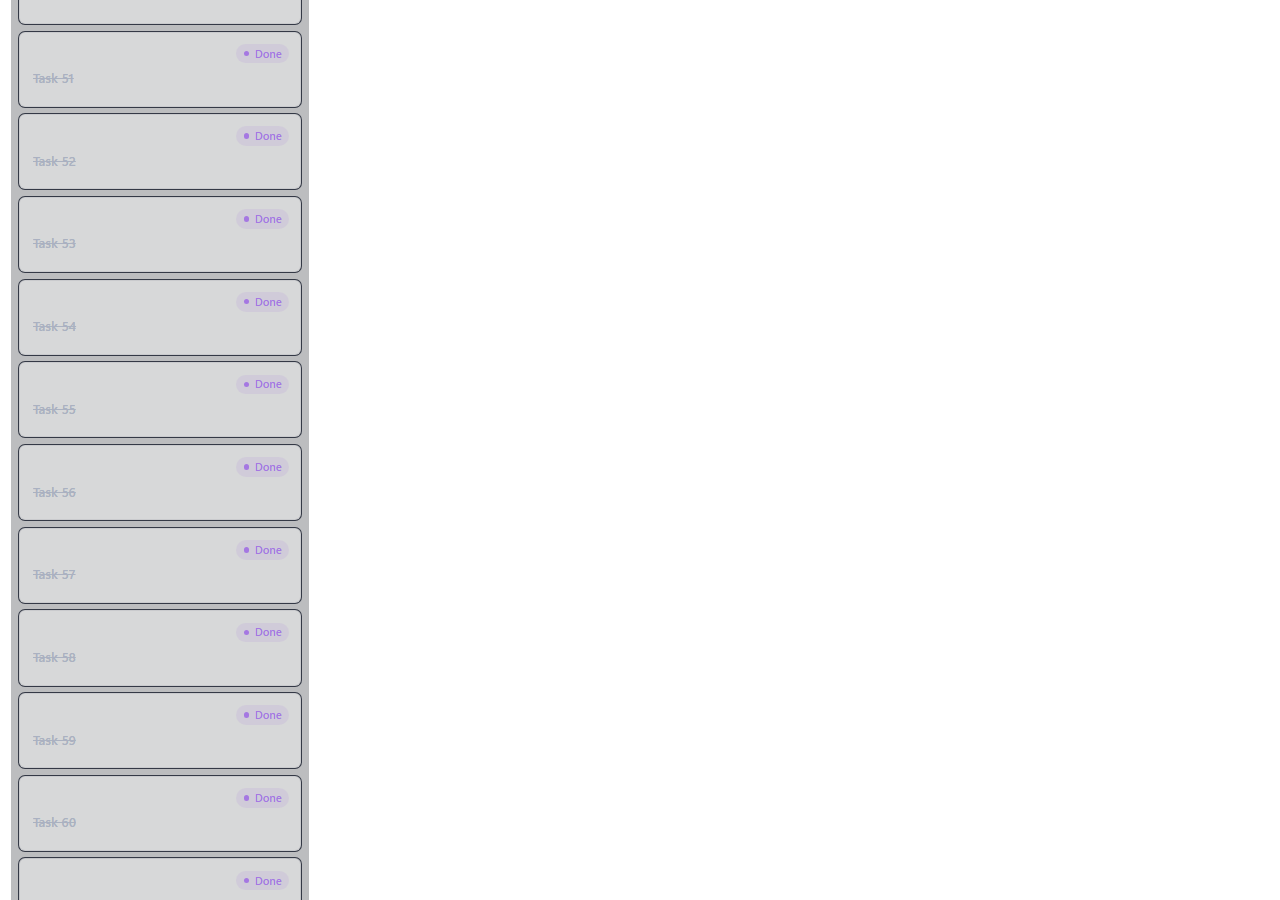
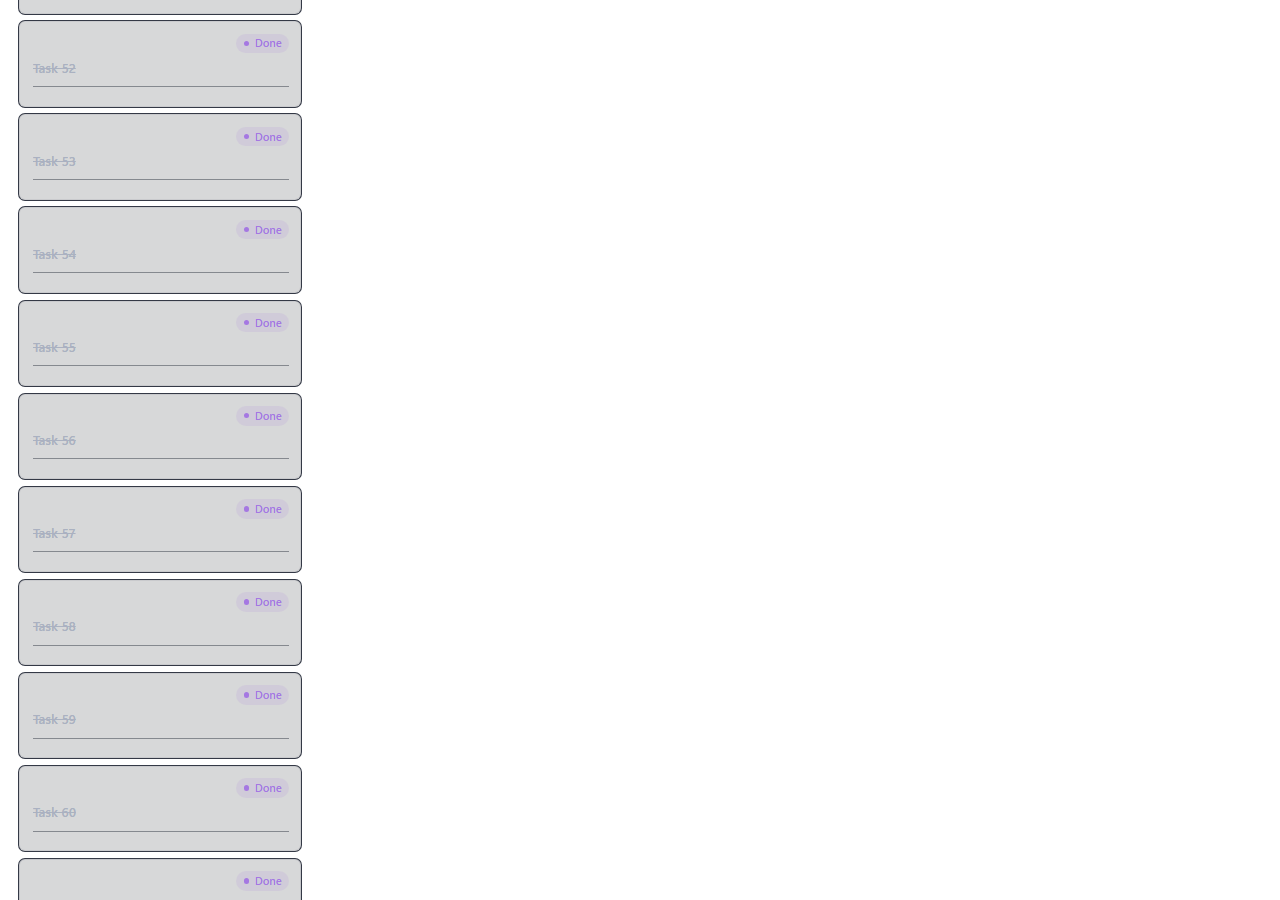
fix(ui): restore the board's colour, shrink the panel titles, drop the interface scale
Four corrections from review, all visual rather than structural.

The board lost its identity when columns went neutral: the dot-plus-muted-pill repaint was justified by an unreadable onAccent (white on amber measured 2.15:1), but that cause no longer exists - onAccent is derived from the fill's luminance and the chrome workflow asserts >=4.5:1 for every palette colour as rendered. Solid pills and the per-column tint are back, and the count chip sits on the fill again with a translucent white. The card keeps its three-row anatomy and regains the footer hairline (3 rows, 85.6px against the 96px budget).

Panel headers are back to text-body (13px): the 16px tier made every header - sidebar, chat, panes - read as a section title.

Interface scale is gone: the control, its i18n keys, and the uiScale preference field in shared config (types, schema, normalization, persistence). --ui-scale keeps its token default of 1, so geometry is unchanged; the theme-storage test drops the expectation it had grown.

Context categories now have five distinguishable tones instead of accent twice plus a near-white 'injected': system=accent, user=accent/55, assistant=success, tools=info, injected=foreground-dimmed.

Changed region(s): [[0.0, 0.0, 0.25, 1.0]]

diff --git a/apps/electron/src/renderer/components/app-shell/kanban/KanbanColumn.tsx b/apps/electron/src/renderer/components/app-shell/kanban/KanbanColumn.tsx
@@ -156,8 +156,9 @@ export function KanbanColumn({
 
       <div
         ref={setNodeRef}
-        className="flex flex-1 flex-col gap-2 overflow-y-auto rounded-lg bg-muted/30 p-2 transition-shadow"
+        className="flex flex-1 flex-col gap-2 overflow-y-auto rounded-lg p-2 transition-shadow"
         style={{
+          backgroundColor: color?.tint,
           outline: isOver && color ? `2px solid ${color.solid}` : undefined,
         }}
       >
@@ -249,19 +250,14 @@ function ColumnHeader({
   const initialFocusRef = useInitialFocus<HTMLInputElement>()
   const [open, setOpen] = React.useState(false)
 
-  // Neutral header surface: the column's identity is a coloured dot plus the
-  // label, not a saturated pill. A solid pill forced text onto the raw accent
-  // (white on amber measured 2.15:1) and made four column hues compete with the
-  // status colours on the cards.
+  // The column's identity is its colour: the pill carries the solid fill and the
+  // fill's computed onAccent (>=4.5:1 for every palette entry, asserted by the
+  // chrome workflow), and the body carries the matching tint. The neutral repaint
+  // this replaces existed only because a hard-coded white onAccent measured
+  // 2.15:1 — that cause is gone now that the contrast is derived.
+  const pillStyle = color ? { backgroundColor: color.solid, color: color.onAccent } : undefined
   const inner = (
     <>
-      {color && (
-        <span
-          aria-hidden
-          className="size-2 shrink-0 rounded-full"
-          style={{ backgroundColor: color.solid }}
-        />
-      )}
       {dropStatus && (
         <span className="shrink-0 flex items-center" style={getStatusIconStyle(dropStatus)}>
           {dropStatus.icon}
@@ -269,7 +265,8 @@ function ColumnHeader({
       )}
       {label}
       <span
-        className="inline-flex h-4 min-w-[1rem] items-center justify-center rounded-full bg-foreground/5 px-1 text-micro font-semibold tabular-nums text-text-secondary"
+        className="inline-flex h-4 min-w-[1rem] items-center justify-center rounded-full px-1 text-micro font-semibold tabular-nums"
+        style={{ backgroundColor: 'rgba(255, 255, 255, 0.25)' }}
       >
         {count}
       </span>
@@ -279,7 +276,10 @@ function ColumnHeader({
   // Plain pill: nothing to configure.
   if (!onSelectDropStatus && !editable) {
     return (
-      <span className="inline-flex items-center gap-1.5 rounded-full bg-muted px-2.5 py-1 text-meta font-semibold uppercase tracking-wider text-text-secondary">
+      <span
+        className="inline-flex items-center gap-1.5 rounded-full px-2.5 py-1 text-meta font-semibold uppercase tracking-wider"
+        style={pillStyle}
+      >
         {inner}
       </span>
     )
@@ -292,7 +292,8 @@ function ColumnHeader({
         data-no-dnd="true"
         onPointerDown={e => e.stopPropagation()}
         title={editable ? t('kanban.column.edit') : t('kanban.column.setDropStatus')}
-        className="craft-control craft-focus inline-flex items-center gap-1.5 rounded-full bg-muted px-2.5 py-1 text-meta font-semibold uppercase tracking-wider text-text-secondary transition-shadow hover:ring-2 hover:ring-foreground/15 focus-visible:ring-2 focus-visible:ring-ring/50 data-[state=open]:ring-2 data-[state=open]:ring-foreground/20"
+        className="craft-control craft-focus inline-flex items-center gap-1.5 rounded-full px-2.5 py-1 text-meta font-semibold uppercase tracking-wider transition-shadow hover:ring-2 hover:ring-foreground/15 focus-visible:ring-2 focus-visible:ring-ring/50 data-[state=open]:ring-2 data-[state=open]:ring-foreground/20"
+        style={pillStyle}
       >
         {inner}
         <ChevronDown className="h-3 w-3 opacity-70" />

diff --git a/apps/electron/src/renderer/context/ThemeContext.tsx b/apps/electron/src/renderer/context/ThemeContext.tsx
@@ -24,7 +24,6 @@ import {
   type ThemeOverrides,
   type ThemePreferenceMode,
   type ThemePreferences,
-  type ThemeUiScale,
   type PresetTheme,
 } from '@config/theme'
 import { compileThemeInBrowser } from '@phaneris/ui/theme-compiler'
@@ -42,12 +41,9 @@ interface ThemeContextType {
   mode: ThemeMode
   colorTheme: string
   font: FontFamily
-  /** Interface scale; 1, 1.1 or 1.25. Applied as --ui-scale on the root. */
-  uiScale: ThemeUiScale
   setMode: (mode: ThemeMode) => void
   setColorTheme: (theme: string) => void
   setFont: (font: FontFamily) => void
-  setUiScale: (scale: ThemeUiScale) => void
 
   activeWorkspaceId: string | null
   workspaceColorTheme: string | null
@@ -205,8 +201,7 @@ export function ThemeProvider({
       mode: defaultMode,
       colorTheme: defaultColorTheme,
       font: defaultFont,
-      uiScale: 1,
-    }
+        }
   ))
   const preferencesRef = useRef(preferences)
   const preferenceGeneration = useRef(0)
@@ -231,7 +226,6 @@ export function ThemeProvider({
   const [userThemeRevision, setUserThemeRevision] = useState(0)
 
   const { mode, colorTheme, font } = preferences
-  const uiScale: ThemeUiScale = preferences.uiScale ?? 1
   const resolvedMode = mode === 'system' ? systemPreference : mode
   const effectiveColorTheme = previewColorTheme ?? workspaceColorTheme ?? colorTheme
   const effectiveColorThemeSource: 'preview' | 'workspace' | 'app' =
@@ -365,9 +359,6 @@ export function ThemeProvider({
     persistPreferences({ font: nextFont })
   }, [persistPreferences])
 
-  const setUiScale = useCallback((nextScale: ThemeUiScale) => {
-    persistPreferences({ uiScale: nextScale })
-  }, [persistPreferences])
 
   // Workspace theme selection is loaded with a request generation so a slow
   // response from the previous workspace can never overwrite the active one.
@@ -585,8 +576,7 @@ export function ThemeProvider({
       : resolvedTheme
     // One knob for control geometry and type. --reading-scale stays separate so
     // enlarging the UI never reflows the reading column.
-    root.style.setProperty('--ui-scale', String(uiScale))
-    root.dataset.themeDepth = effectiveVisualTheme.depth ?? 'elevated'
+      root.dataset.themeDepth = effectiveVisualTheme.depth ?? 'elevated'
     root.dataset.themeDensity = effectiveVisualTheme.density ?? 'comfortable'
     const styleId = 'craft-theme-overrides'
     let styleElement = document.getElementById(styleId) as HTMLStyleElement | null
@@ -602,7 +592,7 @@ export function ThemeProvider({
     window.dispatchEvent(new CustomEvent('craft-theme-change', {
       detail: { ...snapshot, id: snapshot.appliedId, mode: snapshot.actualMode },
     }))
-  }, [actualMode, font, isDark, isScenic, loadedTheme, resolvedMode, resolvedTheme, snapshot, systemPreference, uiScale])
+  }, [actualMode, font, isDark, isScenic, loadedTheme, resolvedMode, resolvedTheme, snapshot, systemPreference])
 
   useEffect(() => {
     const setTitleBarOverlay = window.electronAPI?.setTitleBarOverlay
@@ -627,8 +617,6 @@ export function ThemeProvider({
     setMode,
     setColorTheme,
     setFont,
-    uiScale,
-    setUiScale,
     activeWorkspaceId,
     workspaceColorTheme,
     setWorkspaceColorTheme,
@@ -670,8 +658,6 @@ export function ThemeProvider({
     resolvedTheme,
     setColorTheme,
     setFont,
-    uiScale,
-    setUiScale,
     setMode,
     setWorkspaceColorTheme,
     shikiConfig,

diff --git a/packages/shared/src/config/appearance.ts b/packages/shared/src/config/appearance.ts
@@ -16,7 +16,7 @@ import { mergeDecisionLayerSettings, normalizeDecisionLayerSettings, type Decisi
 
 import { normalizeImageGenerationSettings, type ImageGenerationSettings } from './image-generation.ts';
 
-import { BUILTIN_THEMES, DEFAULT_THEME_FILE, isBuiltinThemeId, normalizeBuiltinThemeId, DEFAULT_THEME_PREFERENCES, isValidUserThemeId, resolveTheme, type ThemeOverrides, type ThemeFile, type PresetTheme, type ThemePreferences, type ThemeUiScale, type ThemeSummary } from './theme.ts';
+import { BUILTIN_THEMES, DEFAULT_THEME_FILE, isBuiltinThemeId, normalizeBuiltinThemeId, DEFAULT_THEME_PREFERENCES, isValidUserThemeId, resolveTheme, type ThemeOverrides, type ThemeFile, type PresetTheme, type ThemePreferences, type ThemeSummary } from './theme.ts';
 import type { ThemeDiagnostic } from './theme-manifest.ts';
 
 import { type NetworkProxySettings } from './types.ts';
@@ -681,13 +681,7 @@ export function getThemePreferences(): ThemePreferences {
     font: config?.themeFont === 'theme' || config?.themeFont === 'inter' || config?.themeFont === 'system'
       ? config.themeFont
       : DEFAULT_THEME_PREFERENCES.font,
-    uiScale: normalizeUiScale(config?.uiScale),
   };
-}
-
-/** Unknown or legacy values fall back to 1 rather than inventing a scale. */
-function normalizeUiScale(value: unknown): ThemeUiScale {
-  return value === 1.1 || value === 1.25 || value === 1 ? value : 1;
 }
 
 /** Persist all theme preferences as one atomic config update. */
@@ -700,7 +694,6 @@ export function setThemePreferences(preferences: ThemePreferences): ThemePrefere
     font: preferences.font === 'theme' || preferences.font === 'inter' || preferences.font === 'system'
       ? preferences.font
       : DEFAULT_THEME_PREFERENCES.font,
-    uiScale: normalizeUiScale(preferences.uiScale),
   };
 
   const config = loadStoredConfig();
@@ -708,7 +701,6 @@ export function setThemePreferences(preferences: ThemePreferences): ThemePrefere
   config.themeMode = normalized.mode;
   config.colorTheme = normalized.colorTheme;
   config.themeFont = normalized.font;
-  config.uiScale = normalized.uiScale;
   saveConfig(config);
   return normalized;
 }

diff --git a/packages/shared/src/config/__tests__/theme-storage.test.ts b/packages/shared/src/config/__tests__/theme-storage.test.ts
@@ -213,15 +213,13 @@ describe('user theme storage', () => {
       });
       console.log(JSON.stringify({ initial, persisted, reloaded: getThemePreferences() }));
     `) as {
-      initial: { mode: string; colorTheme: string; font: string; uiScale: number };
-      persisted: { mode: string; colorTheme: string; font: string; uiScale: number };
-      reloaded: { mode: string; colorTheme: string; font: string; uiScale: number };
+      initial: { mode: string; colorTheme: string; font: string };
+      persisted: { mode: string; colorTheme: string; font: string };
+      reloaded: { mode: string; colorTheme: string; font: string };
     };
 
-    // `uiScale` is part of the theme preference shape (normalized to 1 when a
-    // config predates it), so the authoritative-store read must report it.
-    expect(result.initial).toEqual({ mode: 'system', colorTheme: 'default', font: 'theme', uiScale: 1 });
-    expect(result.persisted).toEqual({ mode: 'dark', colorTheme: 'default', font: 'system', uiScale: 1 });
+    expect(result.initial).toEqual({ mode: 'system', colorTheme: 'default', font: 'theme' });
+    expect(result.persisted).toEqual({ mode: 'dark', colorTheme: 'default', font: 'system' });
     expect(result.reloaded).toEqual(result.persisted);
     const rawConfig = JSON.parse(readFileSync(join(configDir, 'config.json'), 'utf-8'));
     expect(rawConfig.themeMode).toBe('dark');

diff --git a/apps/electron/src/renderer/pages/settings/AppearanceSettingsPage.tsx b/apps/electron/src/renderer/pages/settings/AppearanceSettingsPage.tsx
@@ -117,8 +117,6 @@ export default function AppearanceSettingsPage() {
     setColorTheme,
     font,
     setFont,
-    uiScale,
-    setUiScale,
     activeWorkspaceId,
     setWorkspaceColorTheme,
     themeLoadError,
@@ -353,17 +351,6 @@ export default function AppearanceSettingsPage() {
                         { value: 'theme', label: t("settings.appearance.fontTheme") },
                         { value: 'inter', label: t("settings.appearance.fontInter") },
                         { value: 'system', label: t("settings.appearance.fontSystem") },
-                      ]}
-                    />
-                  </SettingsRow>
-                  <SettingsRow label={t("settings.appearance.interfaceScale")}>
-                    <SettingsSegmentedControl
-                      value={String(uiScale)}
-                      onValueChange={(value) => setUiScale(Number(value) as 1 | 1.1 | 1.25)}
-                      options={[
-                        { value: '1', label: '100%' },
-                        { value: '1.1', label: '110%' },
-                        { value: '1.25', label: '125%' },
                       ]}
                     />
                   </SettingsRow>

diff --git a/packages/shared/src/config/theme.ts b/packages/shared/src/config/theme.ts
@@ -35,25 +35,16 @@ export type ThemePreferenceMode = 'light' | 'dark' | 'system';
 export type ThemeFontPreference = 'theme' | 'inter' | 'system';
 
 /** Durable app-level theme preferences stored in config.json. */
-/** Interface scale: 1, 1.1 or 1.25. Multiplies control geometry and type tiers;
- *  it never touches the reading column (--reading-scale is separate). */
-export type ThemeUiScale = 1 | 1.1 | 1.25
-export const UI_SCALE_VALUES: readonly ThemeUiScale[] = [1, 1.1, 1.25]
-
 export interface ThemePreferences {
   mode: ThemePreferenceMode;
   colorTheme: string;
   font: ThemeFontPreference;
-  /** Optional so every pre-existing preference literal and fixture stays valid;
-   *  normalization fills in 1. */
-  uiScale?: ThemeUiScale;
 }
 
 export const DEFAULT_THEME_PREFERENCES: ThemePreferences = {
   mode: 'system',
   colorTheme: 'default',
   font: 'theme',
-  uiScale: 1,
 };
 
 const USER_THEME_ID_PATTERN = /^[a-zA-Z0-9][a-zA-Z0-9._-]{0,127}$/;

diff --git a/packages/ui/src/components/trajectory/TrajectoryContextView.tsx b/packages/ui/src/components/trajectory/TrajectoryContextView.tsx
@@ -25,12 +25,15 @@ const CATEGORY_ICON = {
 } satisfies Record<TrajectoryContextCategory, typeof Sparkles>
 
 const CATEGORY_TONE: Record<TrajectoryContextCategory, string> = {
+  // Five categories, five distinguishable tones. They used to be `accent` twice
+  // and `muted` for injected context — the first pair was indistinguishable in
+  // the legend, and a near-white segment is invisible on the context bar.
   system: 'bg-accent',
-  user: 'bg-accent',
+  user: 'bg-accent/55',
   assistant: 'bg-success',
   tools: 'bg-info',
-  attachments: 'bg-accent',
-  injected: 'bg-muted',
+  attachments: 'bg-accent/80',
+  injected: 'bg-foreground-dimmed',
 }
 
 function formatNumber(value: number): string {

diff --git a/apps/electron/src/renderer/components/app-shell/kanban/TaskTile.tsx b/apps/electron/src/renderer/components/app-shell/kanban/TaskTile.tsx
@@ -326,7 +326,7 @@ export function TaskTile({
           </div>
         )}
 
-        <div data-tile-row className="mt-2 flex items-center justify-between gap-2 text-meta">
+        <div data-tile-row className="mt-2.5 flex items-center justify-between gap-2 border-t border-border/50 pt-2 text-meta">
           {task.model ? <ModelChip model={task.model} /> : <span />}
           {(relativeTime || hasMessages) && (
             <div className="flex shrink-0 items-center gap-2 text-meta text-text-secondary">

diff --git a/packages/shared/src/config/schemas.ts b/packages/shared/src/config/schemas.ts
@@ -80,7 +80,6 @@ export const StoredConfigSchema = z.object({
   colorTheme: z.string().min(1).optional(),
   themeMode: z.enum(['light', 'dark', 'system']).optional(),
   themeFont: z.enum(['theme', 'inter', 'system']).optional(),
-  uiScale: z.union([z.literal(1), z.literal(1.1), z.literal(1.25)]).optional(),
   // Note: tokenDisplay, showCost, cumulativeUsage, defaultPermissionMode removed
   // Permission mode and cyclable modes are now per-workspace in workspace config.json
 });

diff --git a/apps/electron/src/renderer/components/app-shell/PanelHeader.tsx b/apps/electron/src/renderer/components/app-shell/PanelHeader.tsx
@@ -177,7 +177,7 @@ export function PanelHeader({
     >
       <div className="flex min-w-0 max-w-full items-center justify-center gap-1">
         <TitleHeading className={cn(
-          "truncate font-sans text-title font-semibold leading-tight",
+          "truncate font-sans text-body font-semibold leading-tight",
           isRegeneratingTitle && "animate-shimmer-text"
         )}>{title}</TitleHeading>
         {badge}

diff --git a/packages/shared/src/config/persisted-types.ts b/packages/shared/src/config/persisted-types.ts
@@ -32,7 +32,6 @@ export interface StoredConfig {
   themeMode?: 'light' | 'dark' | 'system';
   themeFont?: 'theme' | 'inter' | 'system';
   /** Interface scale: multiplies control geometry and type, not reading width. */
-  uiScale?: 1 | 1.1 | 1.25;
   // Auto-update
   dismissedUpdateVersion?: string;  // Version that user dismissed (skip notifications for this version)
   // Input settings
